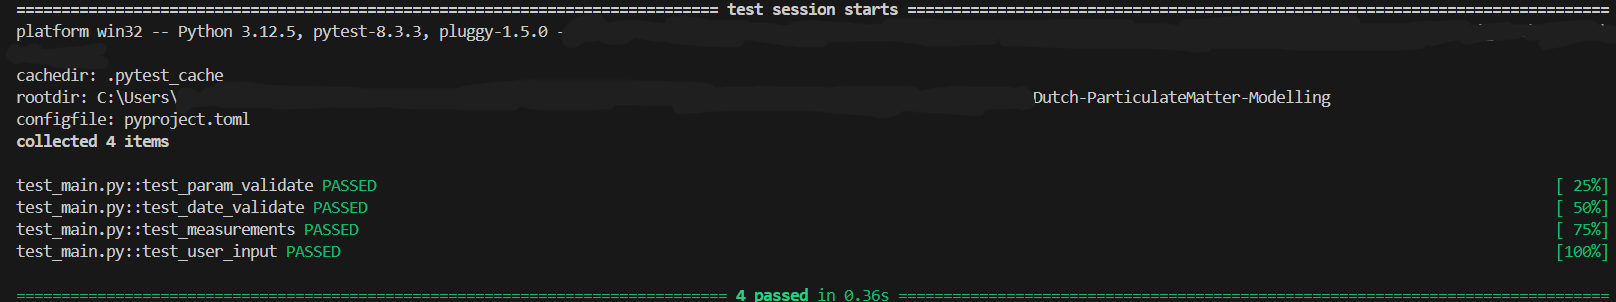
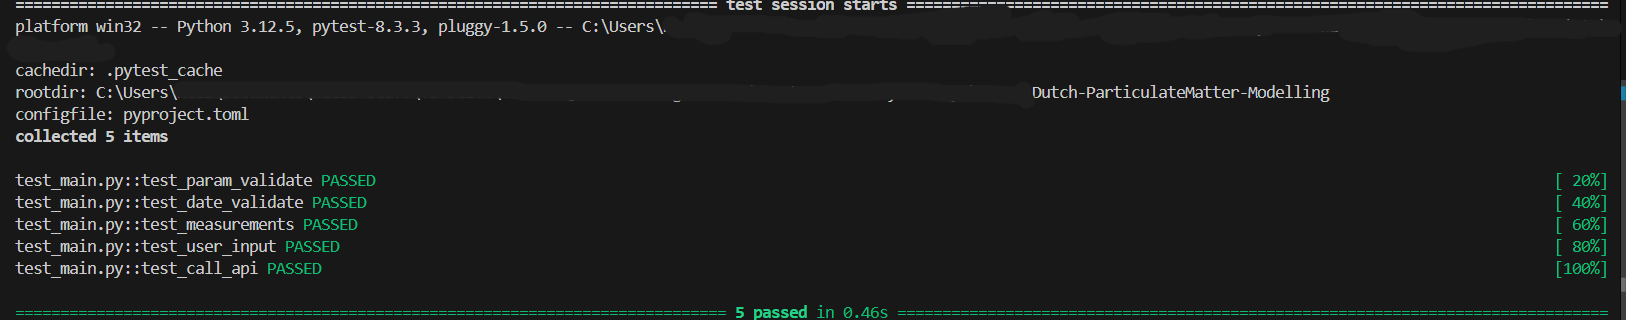
Updated: docstrings in main.py for clearers inputs and outputs Updated: Readme file to include newpytest ouput Added: pytestoutput.png Deleted: PytestOutput.png Updated: refactored the call api functions to work properly with pytest

diff --git a/main.py b/main.py
@@ -87,12 +87,12 @@ def measurements(formula, start, end, order_by="timestamp_measured", order_direc
     a time range
 
     Input:
-        string: param
-        string: start
-        string: end 
+        formula (string): pollutant name
+        start (string): start date
+        end (string): end date
 
     Output:
-        string: endpoint_included_url
+        endpoint_included_url (string): url to create part of the query for api calling.
     '''
     endpoint_included_url = f'measurements?station_number={station}&formula={formula}&page=1&order_by={order_by}&order_direction={order_direction}&end={end}T09:00:00&start={start}T09:00:00'
     return endpoint_included_url
@@ -103,10 +103,10 @@ def user_input(base_url = 'https://api.luchtmeetnet.nl/open_api/'):
     This function asks the user for a parameter/pollutant, then invokes the input validation functions and if the user data
     is good, then it returns a complete URL needed for calling the API
     Input:
-        base_url: string
+        base_url (string): base url
 
     Output:
-        url: string
+        string: complete url for API querying
     '''
     parameter = input("Enter Parameter (Pollutant PM10 will only work for now): ")
     print()
@@ -142,7 +142,7 @@ def call_api():
         No input
 
     Output:
-        string
+        string: output text in the terminal
     '''
     call_user_input = user_input()
 

diff --git a/test_main.py b/test_main.py
@@ -60,31 +60,20 @@ def test_user_input():
     url = refactor_user_input(parameter, start_date, end_date)
     assert url is None
 
-'''def refactor_call_api():
-
-    call_user_input = refactor_user_input()
+def refactor_call_api(call_user_input):
 
     if call_user_input is not None:
 
         r = requests.get(call_user_input)
 
-        response = r.json()
-
-        timestamps = [i['timestamp_measured'] for i in response['data']]
-
-        values = [i['value'] for i in response['data']]
-
-        print(f"{'Timestamp':<25} {'PM10 Value (µg/m³)':<15}")
-
-        print("-" * 40)
-
-        for timestamp, value in zip(timestamps, values):
-
-            print(f"{timestamp:<25} {value:<15}")
+        return r.status_code
 
     else:
 
         sys.exit()
 
-def test_call_api():
-'''
+def test_call_api(): 
+
+    call_user_input = 'https://api.luchtmeetnet.nl/open_api/measurements?station_number=NL01494&formula=PM10&page=1&order_by=timestamp_measured&order_direction=asc&end=2024-10-11T09:00:00&start=2024-10-10T09:00:00'
+
+    assert refactor_call_api(call_user_input) == 200

diff --git a/README.md b/README.md
@@ -82,4 +82,4 @@ To run the test_main.py file, type "pytest <directory>\test_main.py" in the term
 
 ## Pytest Output
 
-![Pytest output for test_main.py file which contains testing functions for my main.py file](PytestOutput.png)
+![Pytest output for test_main.py file which contains testing functions for my main.py file](pytestoutput.png)
